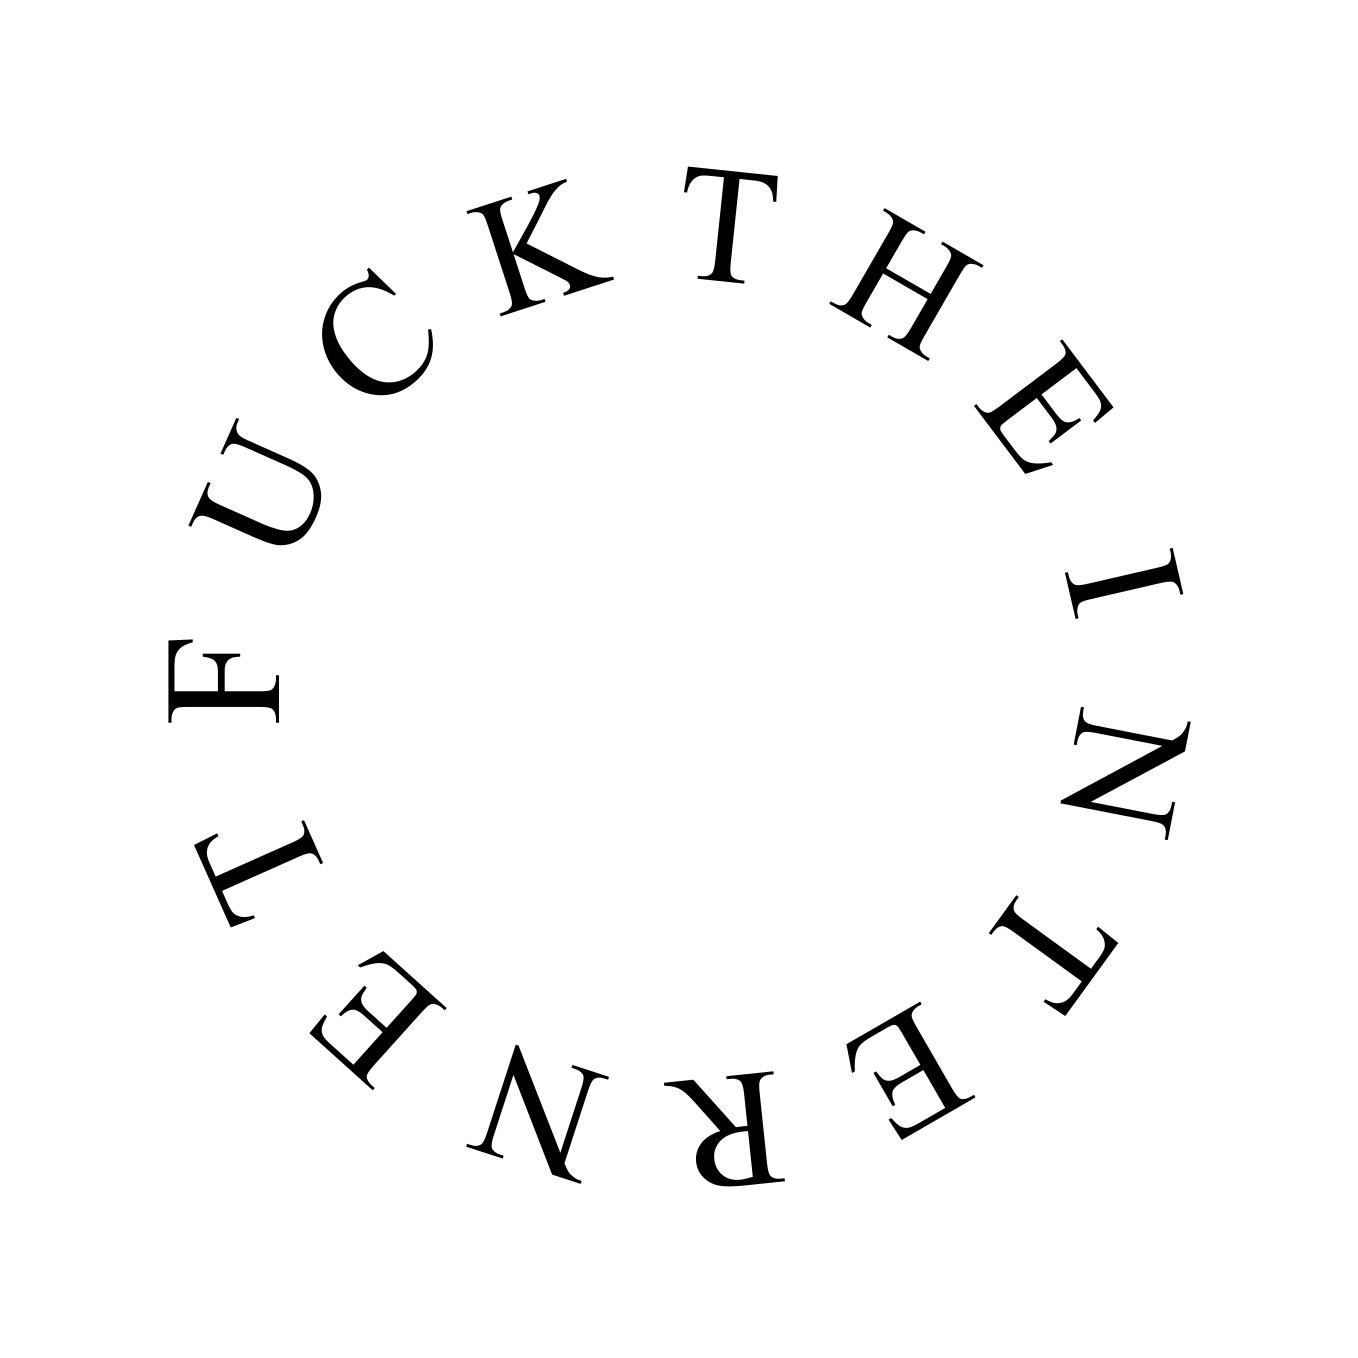
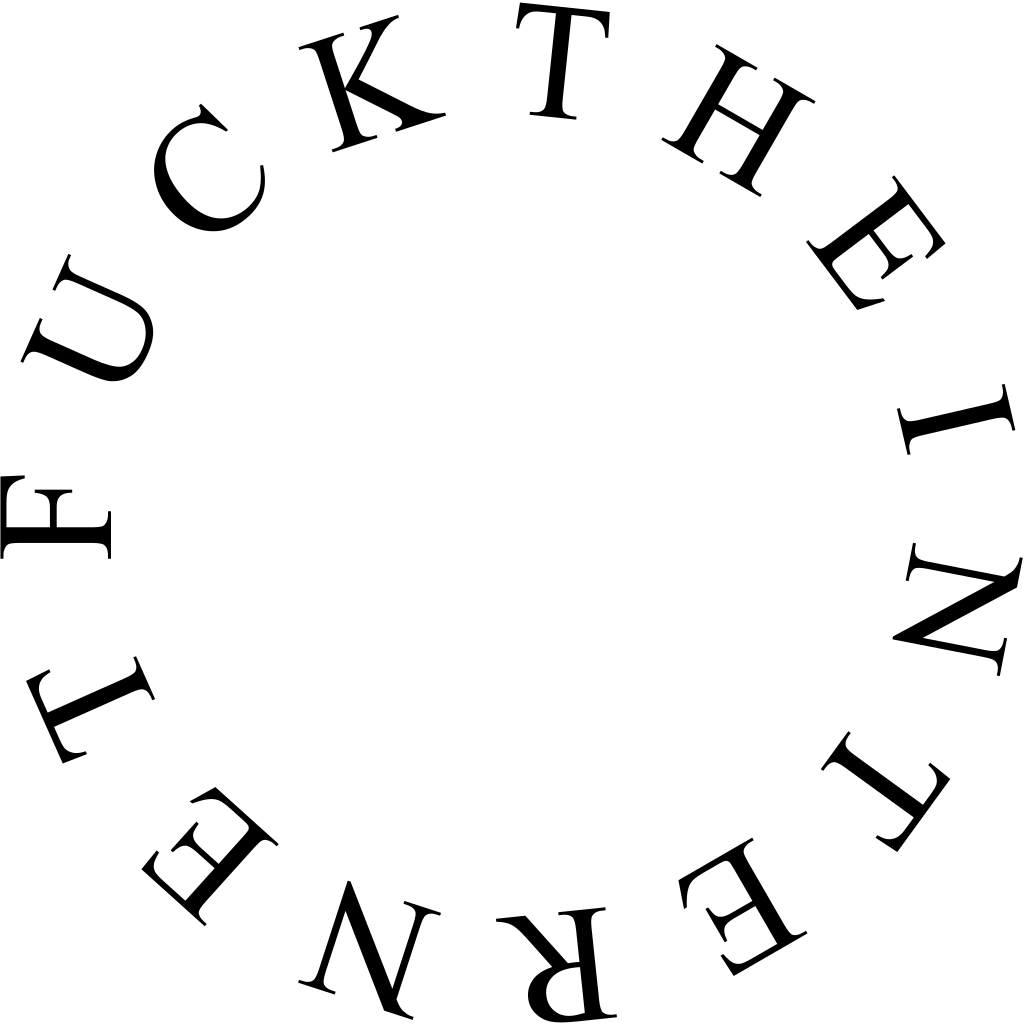
lucia

diff --git a/lucia.html b/lucia.html
@@ -3,26 +3,40 @@
 <link rel="stylesheet" href="styles.css">
 </head>
 <header>        
-    <img src="images/FTI wrap.png" class="spin"width="100vh" height="auto" title="FUCKTHEINTERNET">
+    <img src="images/FTI wrap.png" class="spin"width="70px" height="auto" title="FUCKTHEINTERNET">
 
 </form>
 </header>
 <body>
     
-    <nav>
-            <br><br>
-        Contents <br> <br> Top <br>  <br>  <br>  </nav>
+    <div class="sidebar">
+            
+            Contents...
+  <a href="Top">Top</a>
+  <a href="Background">Background</a>
+  </div>
 
 
     <div class="row">
         <div class="column">
     <h1>Lucia</h1>
-<p>Lucia is the 
-    
+<p>Lucia <i>(pr. LOO-shuh)</i> is a philosopher and opinionated neer-do-well currently dwelling in Milwaukee, WI. 
+    They like to write songs and take photos. Since Fuck The Internet is their personal blog, 
+    many of the articles on the site are written from their perspective.  
 </p>
 
 <h2>Background</h2>
-<p>  
+<p> 
+    I was born in Missouri and lived there until moving to Wisconsin when I was 12. 
+    I had the sort of upbringing that makes you a sort of interesting person but 
+    ultimately alienates you from your peers. I know a lot of people have had a similar 
+    experience, and we're all interesting and cool and fucked up in our unique ways. 
+    Apart from a year or two in montessouri elementary school, I was homeschooled until 8th
+    grade. For most of our childhood my siblings and I were technically "unschooled," which
+    is one way to say I spent most of my early years running around in the woods instead 
+    of learning math. That's not to say my childhood was devoid of learning. I read constantly, 
+    and spent countless days at the library while my parents worked at their restaurant. 
+
 </p>
 <h2>Why Wiki?</h2>
 <p>
@@ -35,7 +49,7 @@
 </p>
 </div>
 <div class="columnright">
-    <br><br>
+   
     <img src="images/me.jpg" title="Lucia">
 </div>
     </div>

diff --git a/styles.css b/styles.css
@@ -15,6 +15,7 @@ p{
     text-align: justify;
     margin-top: 2%;
 }
+
 body {
     background-color: #f8f9fa;
     color: #202122;
@@ -24,32 +25,35 @@ html{
     font-size: 100%;
 }
 .column{
-width: 58%;
-display: inline-block;
+width: 64%;
+
 float: left;
+margin-right: 0%;
 }
 .columnright{
-    width: 27%;
-    display: inline-block;
+    width: 25%;
+
     float: right;
-    margin-left: 2%;
-    margin-right: 2%;
+    margin-left: 1%;
+    margin-right: 1%;
 }
 .columnright img{
     border-color: #a2a9b1;
     border-style: double;
+    margin-top: 2lh;
+    float: left;
 }
 .columnright p{
     font-family: 'Times New Roman', Times, serif;
     text-align: center;
     margin: 0%;
 }
-nav{
-    width: 10%;
-    float: left;
-    display: block;
-    padding-right: 1%;
-    
+.sidebar p{
+    margin-bottom: 1px;
+}
+.sidebar a{
+
+
 }
 .spin {
       animation-name: spin;
@@ -89,4 +93,27 @@ a{
 }
 a:hover{
     text-decoration: underline;
+}
+@media screen and (min-width: 700px) {
+.sidebar{
+    width: 80px;
+    float: left;
+    display: block;
+  margin-right: 1%;
+    padding-top: 2lh;
+    
+}
+}
+
+@media screen and (max-width: 700px) {
+    .column{
+        width: 68%;
+    }
+    .columnright {
+        width: 28%;
+    }
+    .sidebar {
+
+  
+    }
 }

diff --git a/index.html b/index.html
@@ -3,21 +3,21 @@
 <link rel="stylesheet" href="styles.css">
 </head>
 <header>        
-    <img src="images/FTI wrap.png" class="spin"width="100vh" height="auto" title="FUCKTHEINTERNET">
+    <img src="images/FTI wrap.png" class="spin" title="FUCKTHEINTERNET">
 
 </form>
 </header>
 <body>
     
     <nav>
-            <br><br>
+      
         Contents <br> <br> Top <br>  <br>  <br>  </nav>
 
 
     <div class="row">
         <div class="column">
     <h1>Fuck the Internet</h1>
-<p>Fuck the internet is a personal website created by Lucia Duff-Gay
+<p>Fuck the internet is a personal website created by Lucia
     meant to host their various collections of art, writing, and photography.
     
 </p>
@@ -36,7 +36,7 @@
 </p>
 </div>
 <div class="columnright">
-    <br><br>
+ 
     <img src="images/FTI wrap.png" title="FTI">
     <p>Source: <a href="https://www.furaffinity.net/view/59766269/" title="Furaffinity">Furaffinity</a></p>
 </div>

diff --git a/decafbat.html b/decafbat.html
@@ -10,7 +10,7 @@
 <body>
     
     <nav>
-            <br><br>
+            
         Contents <br> <br> Top <br> Early Life <br> Career <br> Lost Media </nav>
 
 
@@ -56,7 +56,7 @@ lost media</p>
 </p>
 </div>
 <div class="columnright">
-    <br><br>
+    
     <img src="images/decafbat.jpg" title="decafbat">
     <p>Source: <a href="https://www.furaffinity.net/view/59766269/" title="Furaffinity">Furaffinity</a></p>
 </div>
